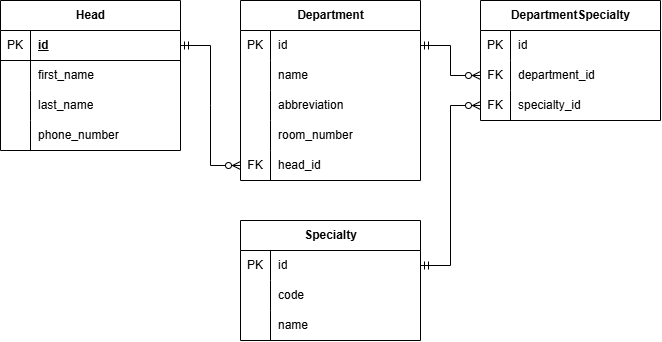
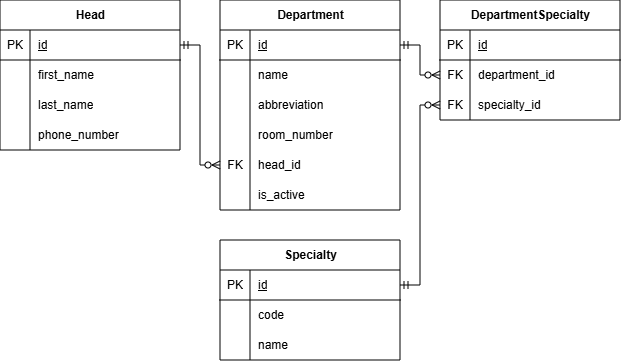
Add files via upload

Changed region(s): [[0.0, 0.0, 1.0, 1.0], [0.0, 0.0, 0.0306, 0.0292]]

diff --git a/S5/models.py b/S5/models.py
@@ -18,6 +18,7 @@ class Department(BaseModel):
     abbreviation = CharField(max_length=20, unique=True)
     room_number = IntegerField()
     head = ForeignKeyField(Head, backref='departments', on_delete='RESTRICT')
+    is_active = BooleanField(default=True)
 
 class Specialty(BaseModel):
     code = CharField(max_length=20, unique=True)

diff --git a/S5/doc.md b/S5/doc.md
@@ -1,90 +1,110 @@
 **Вариант №5. Сервис факультетов/отделений**
 
 **Добавить отделение**  
-Информация, требуемая для создания группы
+Информация, требуемая для создания отделения
 
 | Параметр | Обязательность | Тип | Ограничение | Значение по умолчанию |
 | :---- | :---- | :---- | :---- | :---- |
-| Наименование | Обязательно | Строка | Уникальное значение |  |
-| Аббревиатура | Обязательно | Строка | Уникальное, только заглавные буквы |  |
-| Номер кабинета | Обязательно | Целое число | Больше 0 |  |
-| id заведующего | Обязательно | Целое число | Больше 0,  |  |
+| name | Обязательно | Строка | Уникальное значение |  |
+| abbreviation | Обязательно | Строка | Уникальное, только заглавные буквы |  |
+| room_number | Обязательно | Целое число | Больше 0 |  |
+| head_id | Обязательно | Целое число | Больше 0,  |  |
 
 Уникальные комбинации параметров:
 
-* Наименование должно быть полностью уникальным.  
-* Аббревиатура должна быть полностью уникальной.
+* name должно быть полностью уникальным.  
+* abbreviation должно быть полностью уникальным.
 
 Информация, возвращаемая в случае удачного создания отделения:
 
 | Параметр | Тип |
 | :---- | :---- |
-| id отделения | Целое число |
-| Наименование | Строка |
-| Аббревиатура | Строка |
-| Номер кабинета | Целое число |
-| id заведующего | Целое число |
+| id | Целое число |
+| name | Строка |
+| abbreviation | Строка |
+| room_number | Целое число |
+| head_id | Целое число |
+| is_active | Логический |
 
 **Изменить отделение по ID**  
 Входные параметры
 
 | Параметр | Обязательность | Тип | Ограничение | Значение по умолчанию |
 | :---- | :---- | :---- | :---- | :---- |
-| id заведующего | Обязательно | Целое число | Больше 0 | NULL |
+| head_id | Обязательно | Целое число | Больше 0 | NULL |
+| id | Целое число |
+| name | Строка |
+| abbreviation | Строка |
+| room_number | Целое число |
+| head_first_name | Строка |
+| head_last_name | Строка |
+| specialties_count | Целое число |
+| specialty_ids | Список целых чисел |
 
 Выходные параметры
 
 | Параметр | Тип |
 | :---- | :---- |
-| id отделения | Целое число |
-| Наименование | Строка |
-| Аббревиатура | Строка |
-| Номер кабинета | Целое число |
-| id заведующего | Целое число |
-| Имя и фамилия заведующего | Строка |
-| Количество специальностей | Целое число |
-| Список ID специальностей | Список целых чисел |
+| id | Целое число |
+| name | Строка |
+| abbreviation | Строка |
+| room_number | Целое число |
+| head_id | Целое число |
+| head_first_name | Строка |
+| head_last_name | Строка |
+| specialties_count | Целое число |
+| specialty_ids | Список целых чисел |
+| is_active | Логический |
 
 **Удаление отделения по ID**  
 Вернет, если отделение удалено:
-| Параметр | Тип | Описание |
-| :---- | :---- | :---- |
-| Статус удаления | Логический | True |
+| Возвращаемое значение | Тип |
+| :---- | :---- |
+| True | Логический |
 
 Вернет, если отделение не удалено:
-| Параметр | Тип | Описание |
-| :---- | :---- | :---- |
-| Статус удаления | Логический | False |
+| Возвращаемое значение | Тип |
+| :---- | :---- |
+| False | Логический |
 
 **Получить отделение по ID**  
 Информация, возвращаемая в случае удачного поиска отделения по ID:
 
 | Параметр | Тип |
 | :---- | :---- |
-| id отделения | Целое число |
-| Наименование | Строка |
-| Аббревиатура | Строка |
-| Номер кабинета | Целое число |
-| id заведующего | Целое число |
-| Имя и фамилия заведующего | Строка |
-| Количество специальностей | Целое число |
-| Список ID специальностей | Список целых чисел |
+| id | Целое число |
+| name | Строка |
+| abbreviation | Строка |
+| room_number | Целое число |
+| head_id | Целое число |
+| head_first_name | Строка |
+| head_last_name | Строка |
+| specialties_count | Целое число |
+| specialty_ids | Список целых чисел |
+| is_active | Логический |
 
 Получить список отделений по заданным параметрам:
 
 | Параметр | Тип | Описание |
 | :---- | :---- | :---- |
-| Наименование | Строка | Поиск по точному совпадению или подстроке |
-| Аббревиатура | Строка | Поиск по точному совпадению |
-| id заведующего | Целое число | Фильтрация отделений по конкретному заведующему |
+| name | Строка | Поиск по точному совпадению или подстроке (опционально) |
+| abbreviation | Строка | Поиск по точному совпадению (опционально) |
+| head_id | Целое число | Фильтрация отделений по конкретному заведующему (опционально) |
 
 Информация, возвращаемая в виде списка отделений:
 
 | Параметр | Тип |
 | :---- | :---- |
-| id отделения | Целое число |
-| Наименование | Строка |
-| Аббревиатура | Строка |
+| id | Целое число |
+| name | Строка |
+| abbreviation | Строка |
+| room_number | Целое число |
+| head_id | Целое число |
+| head_first_name | Строка |
+| head_last_name | Строка |
+| specialties_count | Целое число |
+| specialty_ids | Список целых чисел |
+| is_active | Логический |
 
-**ER-Диаграмма**  
+**ER-диаграмма**  
 ![Диаграмма](erd.png)
